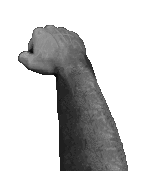
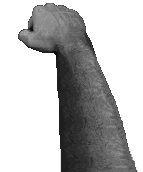
fists

diff --git a/engine/player/player.js b/engine/player/player.js
@@ -4,8 +4,8 @@ class Player {
   armor = 100;
   stamina = 100;
 
-  DEFAULT_DAMAGE = 10;
-  damage = 10;
+  DEFAULT_DAMAGE = 15;
+  damage = 15;
   damage_range = 10;
 
   // POWERUPS
@@ -36,6 +36,8 @@ class Player {
   fov = 1;
   inv_fov = 1;
   fov_modifier = 1;
+  res = 1;
+
 
   fist_offset = 0;
   dir_L; dir_R;
@@ -43,10 +45,11 @@ class Player {
   depth_buffer = [];
   sprite_buffer = [];
 
-  self_group;
   fist_R_img
   fist_L_sprite;
   fist_R_sprite;
+  using_left_fist = false;
+  active_fist; inactive_fist;
 
   constructor(x, y) {
     this.pos.x = x;
@@ -81,6 +84,9 @@ class Player {
     this.fist_R_sprite.height = 200;
     this.fist_L_sprite.width = 200;
     this.fist_L_sprite.height = 200;
+  
+    this.active_fist = this.fist_R_sprite;
+    this.inactive_fist = this.fist_L_sprite;
   }
 
   count = 0;
@@ -93,6 +99,7 @@ class Player {
 
     this.stamina += 0.003 * deltaTime;
 
+    this.res = world_data.ui_handler.res_slider.value();
     this.fov = this.fov_modifier * (scr_hght/scr_wdth);
     this.inv_fov = 1 / this.fov;
 
@@ -145,7 +152,7 @@ class Player {
     this.dir.normalise();
     this.dir.scale(this.fov);
 
-    for (let x=0; x<scr_wdth; x+=1) {
+    for (let x=0; x<scr_wdth; x+=this.res) {
       let camx = (2*x)/(scr_wdth)-1;
 
       this.march_dir.x = this.dir.x + this.plane.x*camx;
@@ -205,14 +212,22 @@ class Player {
       }
 
       if (side == 0) {
-        this.depth_buffer[x].dist = angle * (sideDistX - dx);
-        this.depth_buffer[x].side = side;
-        this.depth_buffer[x].index = 25*Math.floor(mapY/25) + Math.floor(mapX/25);
+        for (let i=x; i<x+this.res; i++) {
+          if (i >= scr_wdth)
+            break;
+          this.depth_buffer[i].dist = angle * (sideDistX - dx);
+          this.depth_buffer[i].side = side;
+          this.depth_buffer[i].index = 25*Math.floor(mapY/25) + Math.floor(mapX/25);
+        }
       }
       else {
-        this.depth_buffer[x].dist = angle * (sideDistY - dy);
-        this.depth_buffer[x].side = side;
-        this.depth_buffer[x].index = 25*Math.floor(mapY/25) + Math.floor(mapX/25);
+        for (let i=x; i<x+this.res; i++) {
+          if (i >= scr_wdth)
+            break;
+          this.depth_buffer[i].dist = angle * (sideDistY - dy);
+          this.depth_buffer[i].side = side;
+          this.depth_buffer[i].index = 25*Math.floor(mapY/25) + Math.floor(mapX/25);
+        }
       }
     }
 
@@ -224,7 +239,7 @@ class Player {
     let r, g, b;
     let line_height, line_start, line_end;
 
-    for (let i=0; i<scr_wdth; i+=1) {
+    for (let i=0; i<scr_wdth; i+=this.res) {
 
       r = active_map.colourmap[4*this.depth_buffer[i].index+0];
       g = active_map.colourmap[4*this.depth_buffer[i].index+1];
@@ -239,7 +254,7 @@ class Player {
       line_start = (-line_height + scr_hght) / 2;
       line_end   = (+line_height + scr_hght) / 2;
 
-      strokeWeight(2);
+      strokeWeight(this.res+1);
       stroke(r, g, b);
       line(i, line_start, i, line_end);
     }
@@ -288,13 +303,11 @@ class Player {
         // let vmove = sprite_array[i].voffset / this.fov;
         let vMoveScreen = floor(vmove/transformY);
 
-
         let sprite_height = abs(scr_hght/(dist*vdiv)) * (scr_hght / 1000);
         let scaling_factor = sprite_height / sprite_array[i].active_img.height;
 
-
         sprite_array[i].sprite.scale = scaling_factor * this.fov_modifier;
-        sprite_array[i].sprite.position.y = scr_hght/2 + vMoveScreen;
+        sprite_array[i].sprite.position.y = scr_hght/2 + vMoveScreen * this.fov_modifier;
       }
 
       else {
@@ -413,7 +426,6 @@ class Player {
       this.vel.scale(this.max_delta_v);
     }
 
-
     if (keyIsDown(keycodes.SPACE) && this.can_punch && this.stamina >= 10) {
       this.stamina -= 10;
       this.can_punch = false;
@@ -431,6 +443,17 @@ class Player {
       if (!keyIsDown(keycodes.SPACE) && this.frames_since_punch > 10) {
         this.is_punching = false;
         this.can_punch = true;
+
+        if (this.using_left_fist == true) {
+          this.active_fist = this.fist_R_sprite;
+          this.inactive_fist = this.fist_L_sprite;
+        }
+        else {
+          this.active_fist = this.fist_L_sprite;
+          this.inactive_fist = this.fist_R_sprite;
+        }
+  
+        this.using_left_fist = !this.using_left_fist;
       }
     }
 
@@ -438,16 +461,16 @@ class Player {
     this.fist_R_sprite.scale = 3 * scr_hght/1000;
 
     if (this.is_punching) {
-      this.fist_R_sprite.position.y = (700 + 20*(sin(0.2*this.pos.x) + sin(0.2*(this.pos.y)))) * (scr_hght/1000);
+      this.active_fist.position.y = (800 + 20*(sin(0.2*this.pos.x) + sin(0.2*(this.pos.y)))) * ratio_y;
     }
     if (!this.is_punching) {
-      this.fist_R_sprite.position.y = (900 + 10*(cos(0.1*this.pos.x) + cos(0.1*(this.pos.y)))) * (scr_hght/1000);
-      this.fist_R_sprite.position.x = (scr_wdth/2)+255 + (10*(sin(0.1*this.pos.x) + sin(0.1*(this.pos.y))));
+      this.active_fist.position.y = (1000 + 10*(cos(0.1*this.pos.x) + cos(0.1*(this.pos.y)))) * ratio_y;
     }
 
-    this.fist_L_sprite.position.y = (900 + 10*(sin(0.1*this.pos.x) + sin(0.1*(this.pos.y)))) * (scr_hght/1000);
-    this.fist_L_sprite.position.x = (scr_wdth/2)-255 - (10*(cos(0.1*this.pos.x) + cos(0.1*(this.pos.y))));
-
+    this.inactive_fist.position.y = (1000 + 10*(cos(0.1*this.pos.x) + cos(0.1*(this.pos.y)))) * ratio_y;
+    
+    this.fist_R_sprite.position.x = (scr_wdth/2)+this.fist_L_sprite.scale*100 + (10*(sin(0.1*this.pos.x) + sin(0.1*(this.pos.y))));
+    this.fist_L_sprite.position.x = (scr_wdth/2)-this.fist_L_sprite.scale*100 + (10*(cos(0.1*this.pos.x) + cos(0.1*(this.pos.y))));
 
     
     if (keyIsDown(LEFT_ARROW)) {

diff --git a/engine/ui/ui.js b/engine/ui/ui.js
@@ -55,6 +55,7 @@ class UI {
 
   music_volume_slider;
   fov_slider;
+  res_slider;
 
   menu_state = MAIN_MENU;
 
@@ -108,7 +109,7 @@ class UI {
     this.helm_sound = true;
     this.ui_display = false;
 
-    this.music_volume_slider = createSlider(0, 1, 0.5, 0.1);
+    this.music_volume_slider = createSlider(0, 1, 1, 0.1);
     this.music_volume_slider.style('width', '180px');
     this.music_volume_slider.position(100, 300);
     this.music_volume_slider.hide();
@@ -117,6 +118,11 @@ class UI {
     this.fov_slider.style('width', '180px');
     this.fov_slider.position(100, 375);
     this.fov_slider.hide();
+
+    this.res_slider = createSlider(1, 64, 1, 1);
+    this.res_slider.style('width', '180px');
+    this.res_slider.position(100, 450);
+    this.res_slider.hide();
   }
 
   draw(world_data) {
@@ -170,18 +176,17 @@ class UI {
   
       this.draw_low_health(world_data);
       
+      strokeWeight(1);
       fill(255);
       textSize(60);
       text(`FPS: ${this.framerate}`, 10, 30);
       text(`(${floor(world_data.players[0].pos.x)}, ${floor(world_data.players[0].pos.y)})`, 10, 55);
-      text(`(${floor(world_data.players[0].vel.x)}, ${floor(world_data.players[0].vel.y)})`, 10, 80);
     }
   }
 
-  unpause(music_volume_slider) {
+  unpause() {
     game_paused = false;
     requestPointerLock();
-    music_volume_slider.hide();
   }
 
   pause() {
@@ -192,6 +197,7 @@ class UI {
   draw_menu() {
 
     textSize(128);
+    strokeWeight(1);
     textAlign(CENTER, CENTER);
     text(`"COOM"`, scr_wdth/2,  scr_hght/8);
 
@@ -207,8 +213,9 @@ class UI {
 
     this.music_volume_slider.hide();
     this.fov_slider.hide();
+    this.res_slider.hide();
 
-    draw_button("Start Cooming", 100, 200, this.unpause, this.music_volume_slider);
+    draw_button("Get Morbin'", 100, 200, this.unpause, this.music_volume_slider);
     draw_button("Controls", 100, 250, (ui) => ui.menu_state = CONTROLS_MENU, this);
     draw_button("Settings", 100, 300, (ui) => ui.menu_state = SETTINGS_MENU, this);
   }
@@ -239,10 +246,13 @@ class UI {
     textAlign(LEFT, CENTER);
     stroke(0);
     fill(0);
-    text("Music Volume:", 100, 275);
+    text(`Music Volume: ${this.music_volume_slider.value()*100}%`, 100, 275);
     this.music_volume_slider.show();
     text(`FOV Scale: ${this.fov_slider.value()}`, 100, 350);
     this.fov_slider.show();
+    text(`Raycast Quality: 1/${this.res_slider.value()}`, 100, 425);
+    this.res_slider.show();
+    world_data.audio_handler.active_track.setVolume(this.music_volume_slider.value());
   }
 
   draw_stat_ui(world_data) {
@@ -274,13 +284,13 @@ class UI {
   draw_cocaine_face() {
 
     if (keyIsDown(keycodes.LEFT)) {
-      image(this.faces_cocaine[1], scr_wdth/2, scr_hght-100);  
+      image(this.faces_cocaine[1], scr_wdth/2, scr_hght-50);  
     }
     else if (keyIsDown(keycodes.RIGHT)) {
-      image(this.faces_cocaine[2], scr_wdth/2, scr_hght-100);
+      image(this.faces_cocaine[2], scr_wdth/2, scr_hght-50);
     }
     else {
-      image(this.faces_cocaine[0], scr_wdth/2, scr_hght-100);
+      image(this.faces_cocaine[0], scr_wdth/2, scr_hght-50);
     }
   }
 
